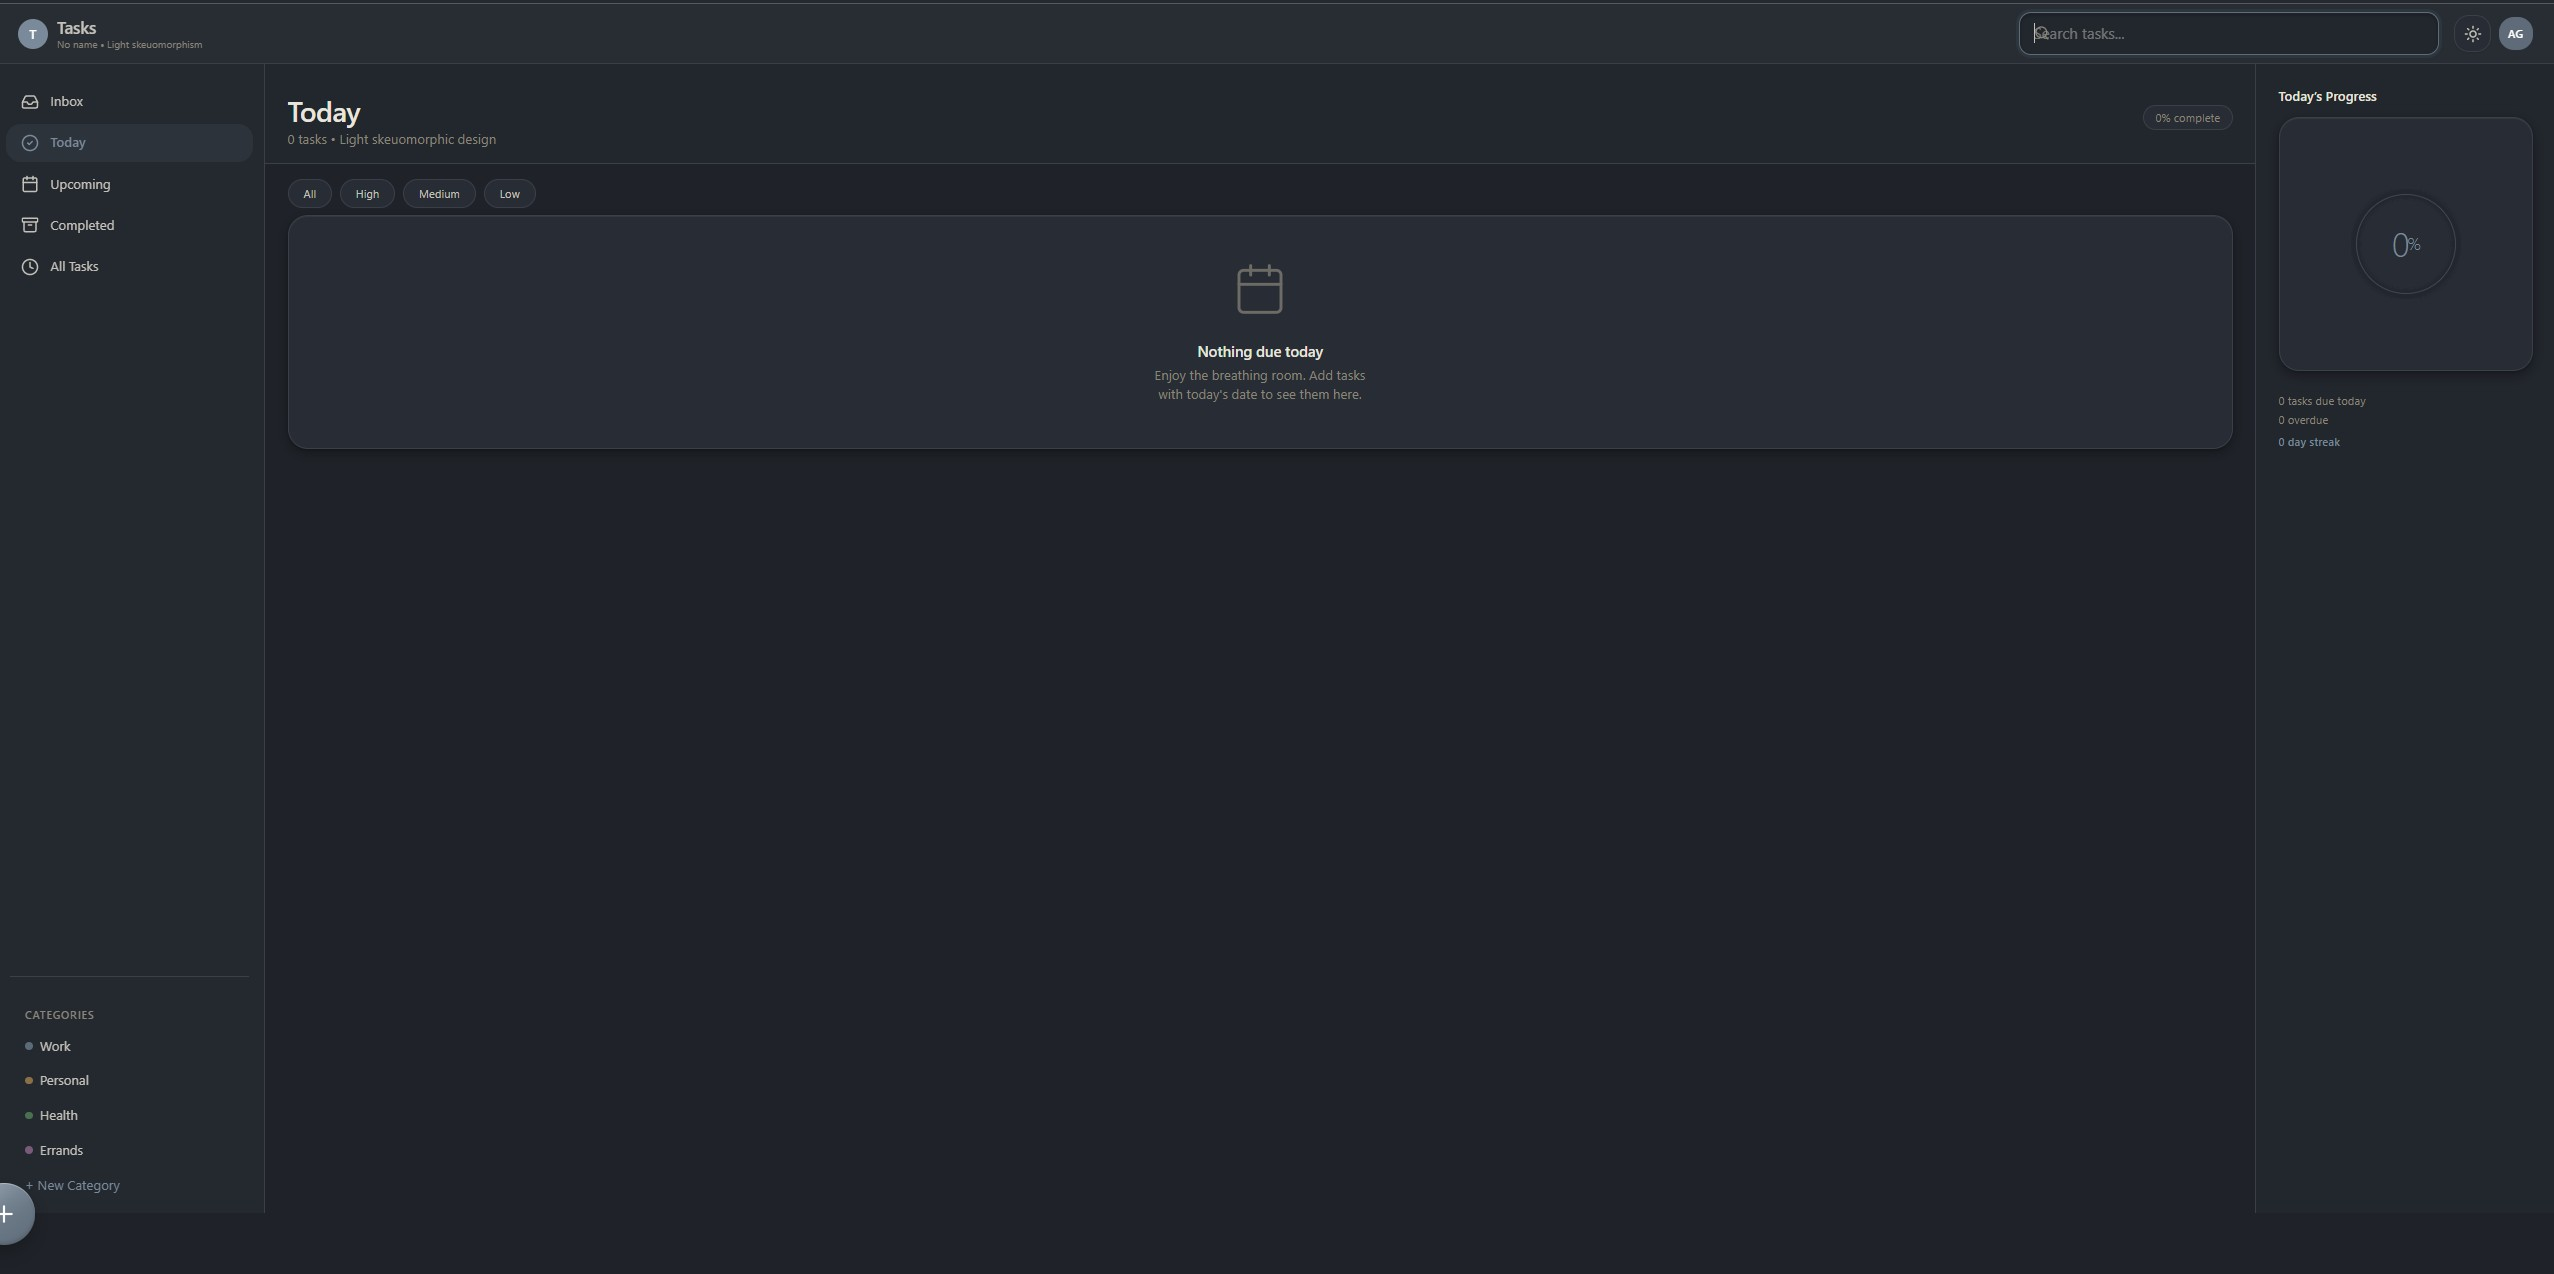
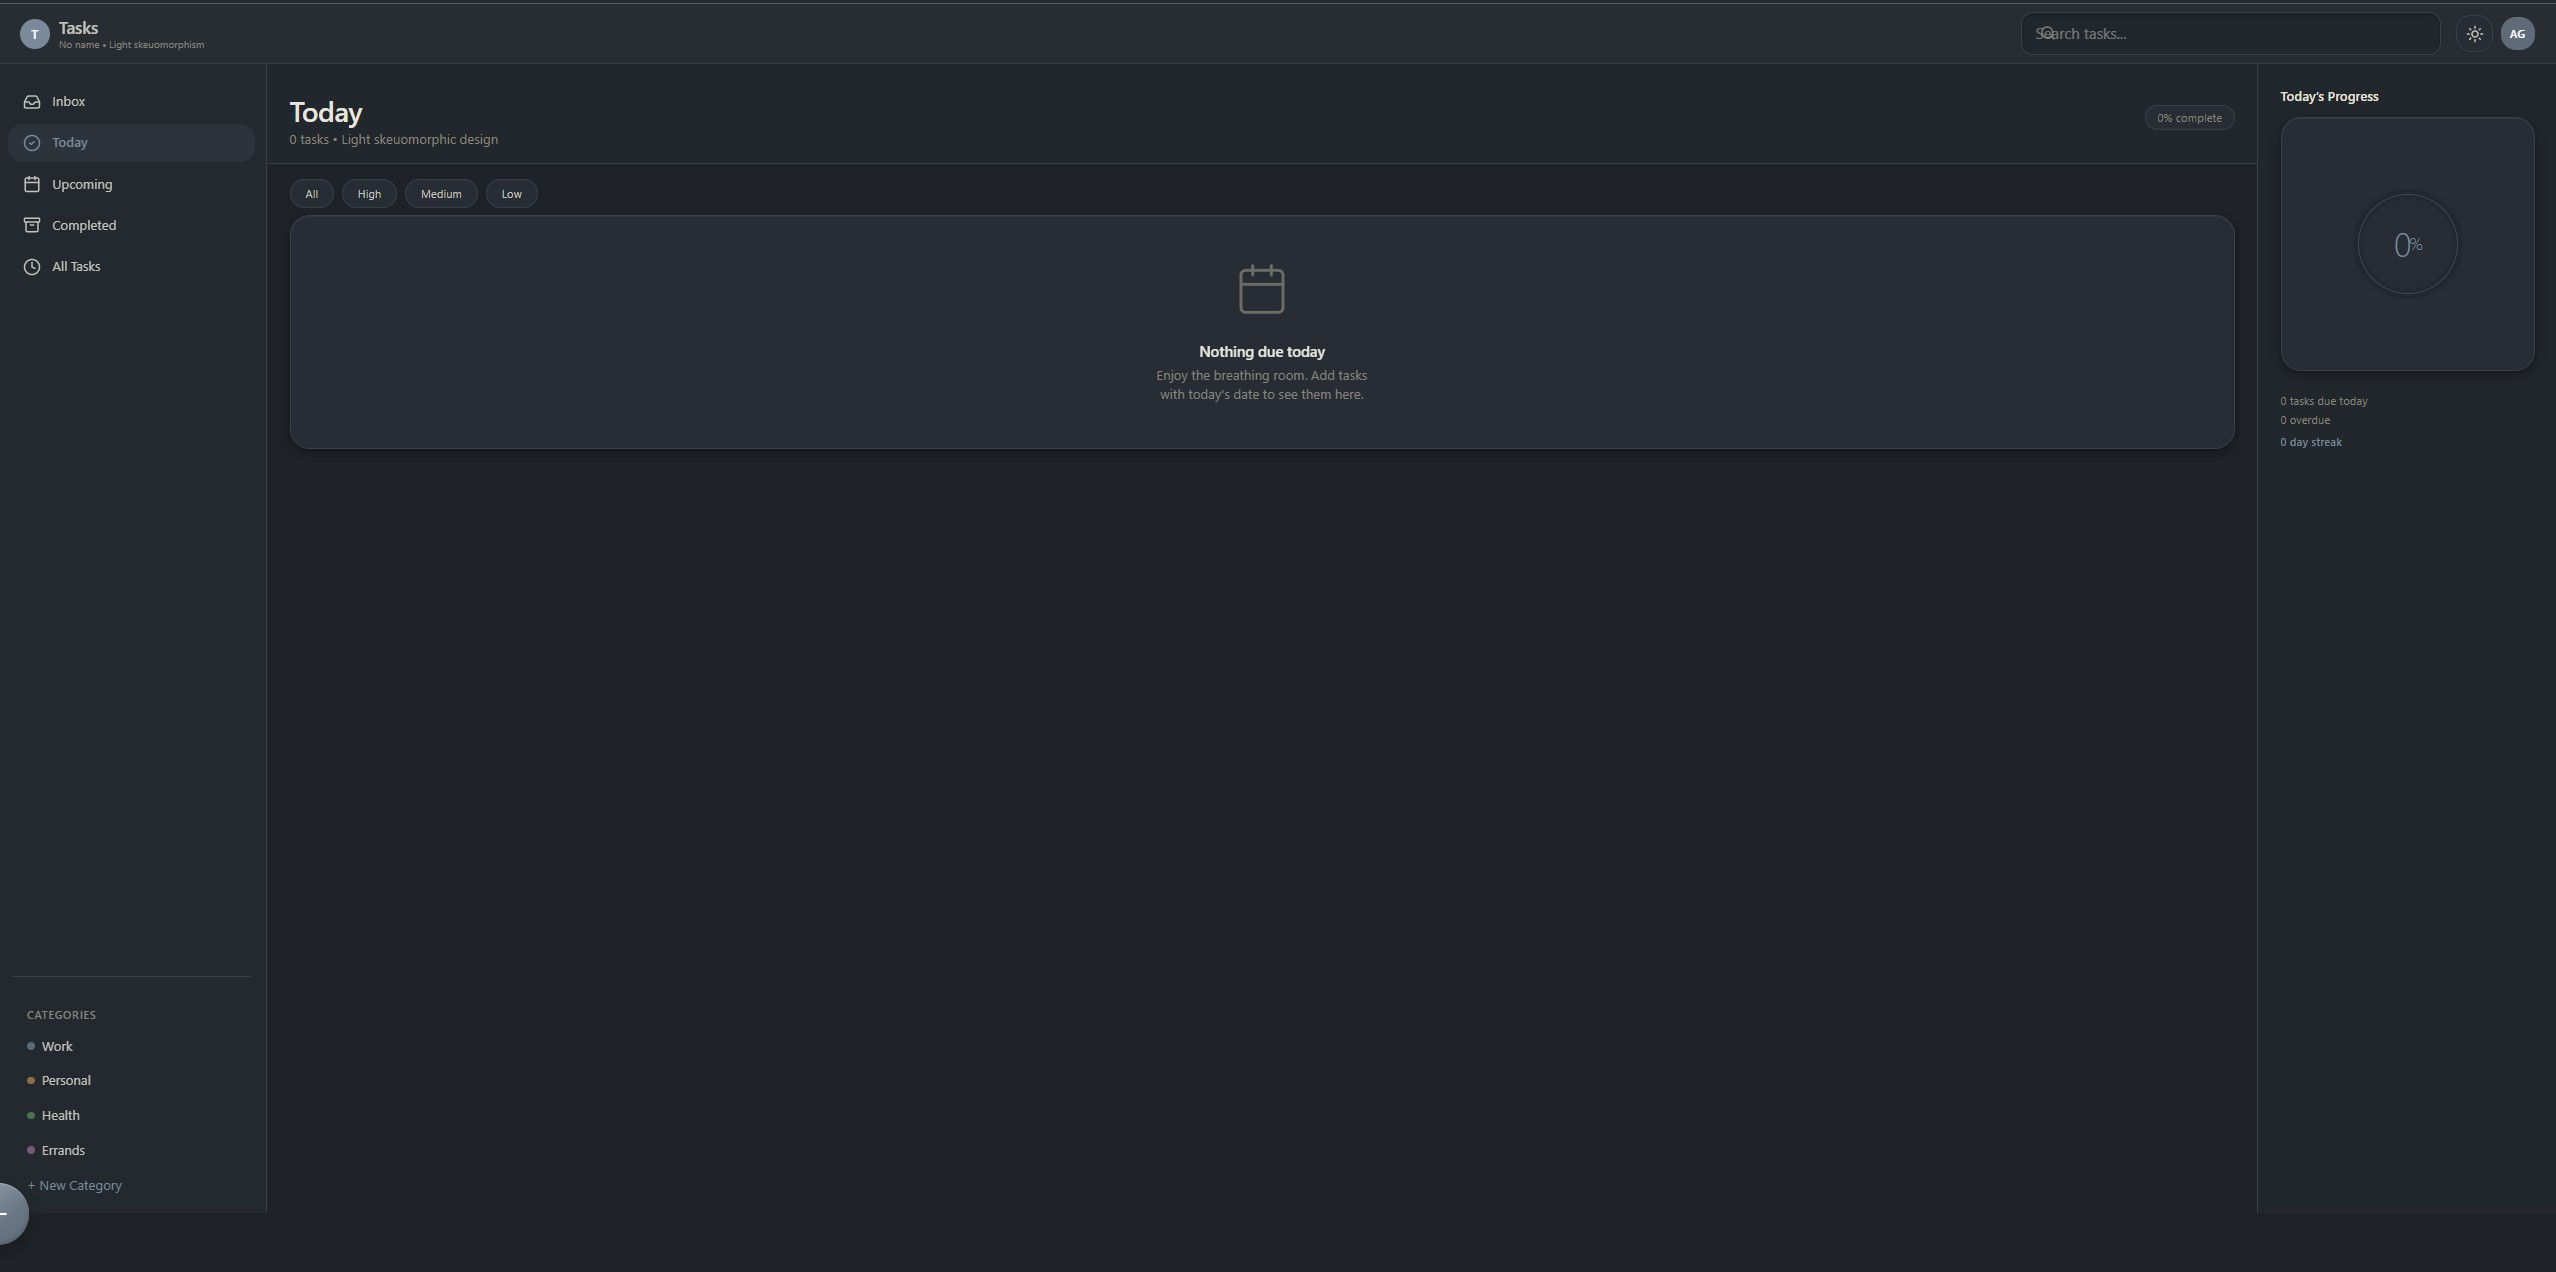
fix: move FAB to bottom-10 right-10 for comfortable full visibility away from edges and right panel

diff --git a/src/App.tsx b/src/App.tsx
@@ -505,7 +505,7 @@ function App() {
 
       {/* FAB - Now functional with ripple + scale (plan micro-interaction) */}
       <button
-        className="skeu-fab fixed bottom-8 right-8 shadow-2xl z-50"
+        className="skeu-fab fixed bottom-10 right-10 shadow-2xl z-50"
         aria-label="Add new task"
         onClick={(e) => {
           // Create ripple
